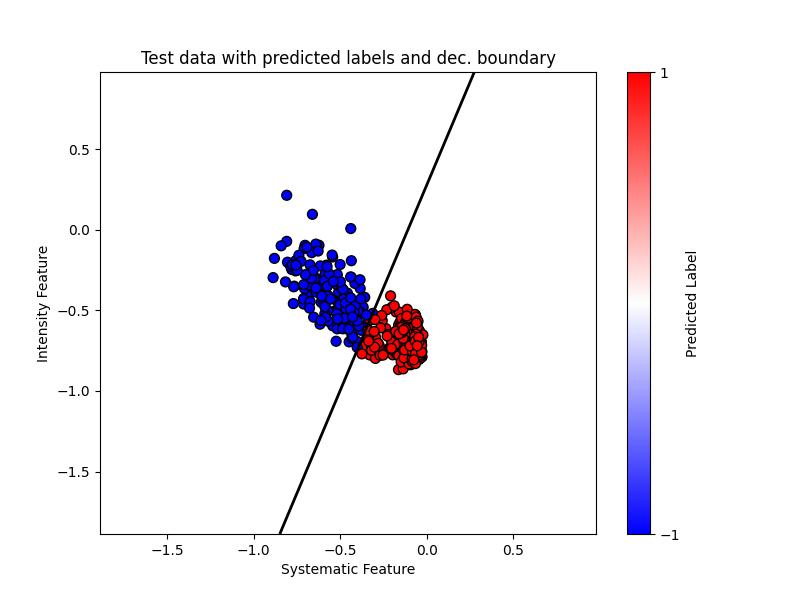
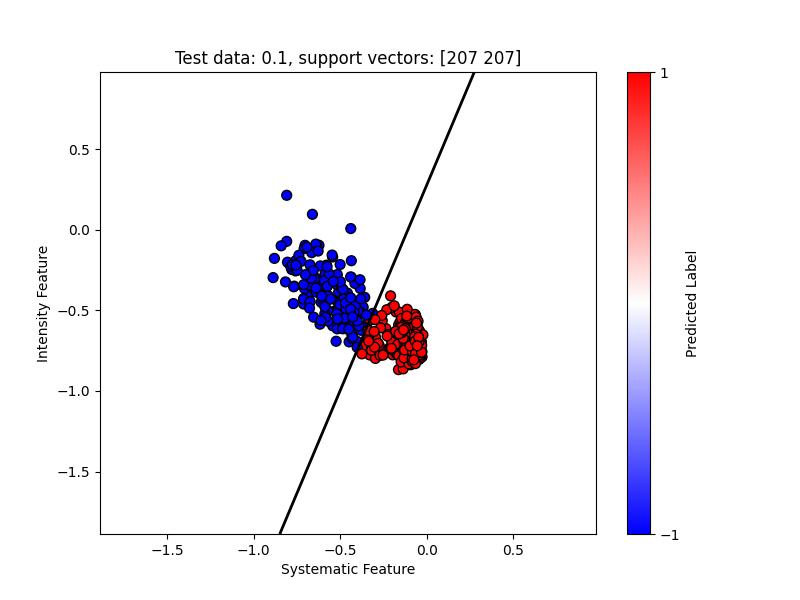
no. of support vectors

Changed region(s): [[0.1875, 0.09, 0.6875, 0.12]]

diff --git a/code/solution.py b/code/solution.py
@@ -44,9 +44,11 @@ def svm_with_diff_c(train_label, train_data, test_label, test_data):
                               cmap='bwr', edgecolor='k', s=50)
         plt.xlabel('Systematic Feature')
         plt.ylabel('Intensity Feature')
-        plt.title('Test data with predicted labels and dec. boundary')
+        plt.title(f"Test data: {c}, support vectors: {linear_svc.n_support_}")
         plt.colorbar(scatter, ticks=[-1, 1], label='Predicted Label')
         plt.savefig(f"./plots/plot{c}.jpg")
+
+
 
     ### END YOUR CODE
     
